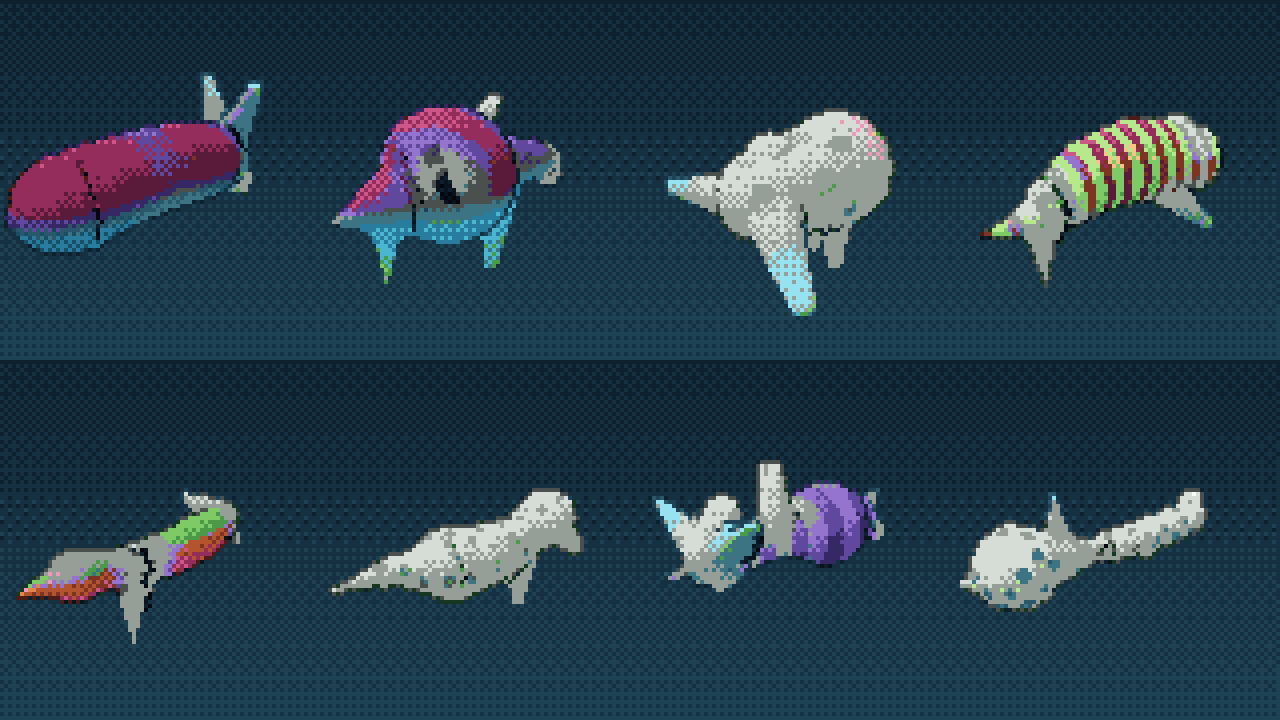
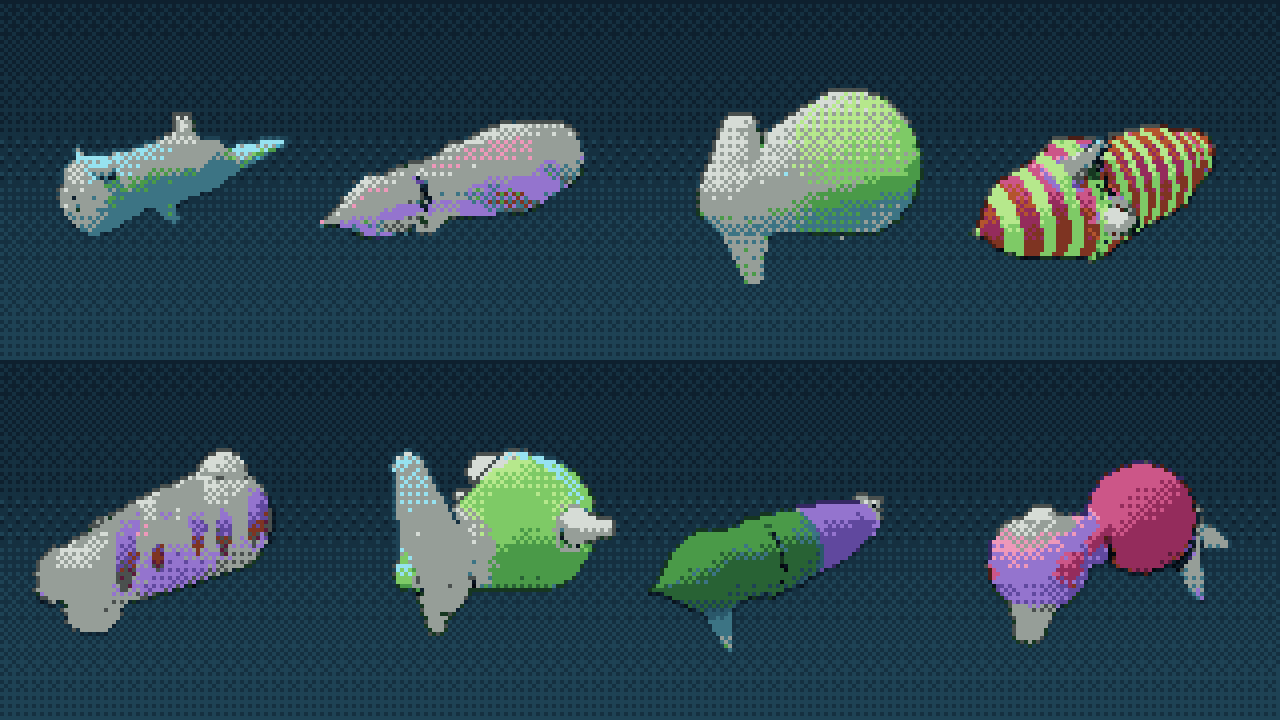
Add four more patterns and per-segment lump genes
Bodies were all smooth spindles because the profile genes only taper. Each
segment now carries a lump gene that dents or bulges its radius, which gives
humps, waists, knobbly spines and pot bellies out of the same four-station
profile.

Patterns went from four to eight: lengthwise stripes, mottle (three
out-of-phase waves, which reads as noise for a fraction of the cost),
nose-to-tail gradient, and concentric rings around the girth.

Also capped the colour genome's value range. It could reach near-white, and
since the renderer tonemaps, a pale albedo plus three light terms rolled off
into a flat featureless blob.

Claude-Session: https://claude.ai/code/session_01ChcFXBS2fUc5MSwqLRWen8

diff --git a/src/aqua_genome.c b/src/aqua_genome.c
@@ -43,6 +43,7 @@ void cp3_genome_clear(Cp3Genome *g)
     g->prof[0] = 110; g->prof[1] = 190; g->prof[2] = 150; g->prof[3] = 70;
     g->hue = 130; g->hue2 = 30; g->sat = 150; g->val = 190;
     g->pattern = CP3_PAT_PLAIN; g->pscale = 120;
+    memset(g->lump, 0, sizeof(g->lump));
 }
 
 /* Catmull-Rom-ish blend across the four profile stations. Smooth, so a
@@ -78,7 +79,9 @@ static void hsv2rgb(float h, float s, float v, float *out)
 void cp3_genome_colour(const Cp3Genome *g, float *rgb, float *rgb2)
 {
     float s = 0.25f + 0.65f * ((float)g->sat / 255.0f);
-    float v = 0.45f + 0.52f * ((float)g->val / 255.0f);
+    /* capped below 1.0: the renderer tonemaps, so an albedo near white
+     * plus three light terms rolls off to a flat pale blob */
+    float v = 0.30f + 0.46f * ((float)g->val / 255.0f);
     if (rgb)  hsv2rgb((float)g->hue / 255.0f, s, v, rgb);
     /* the pattern colour is deliberately pushed apart in value as well as hue,
      * or the markings vanish the moment the palette quantises */
@@ -199,6 +202,8 @@ void cp3_genome_random(Cp3Genome *g, CpRng *r, int budget)
     g->val   = (uint8_t)(70 + cp_rng_int(r, 186));
     g->pattern = (uint8_t)cp_rng_int(r, CP3_PAT_COUNT);
     g->pscale  = (uint8_t)(40 + cp_rng_int(r, 216));
+    for (int i = 0; i < CP3_MAX_SEG; i++)
+        g->lump[i] = (int8_t)(cp_rng_int(r, 97) - 48);
     cp3_genome_normalise(g, budget);
 }
 
@@ -228,6 +233,9 @@ void cp3_genome_mutate(Cp3Genome *g, CpRng *r, int budget, float rate)
     if (cp_rng_f(r) < rate * 0.6f) g->val  = (uint8_t)(g->val + cp_rng_int(r, 41) - 20);
     if (cp_rng_f(r) < rate * 0.3f) g->pattern = (uint8_t)cp_rng_int(r, CP3_PAT_COUNT);
     if (cp_rng_f(r) < rate * 0.5f) g->pscale = (uint8_t)(g->pscale + cp_rng_int(r, 61) - 30);
+    for (int i = 0; i < CP3_MAX_SEG; i++)
+        if (cp_rng_f(r) < rate * 0.7f)
+            g->lump[i] = (int8_t)(g->lump[i] + cp_rng_int(r, 41) - 20);
 
     for (int i = 0; i < CP3_MAX_PARTS; i++) {
         if (cp_rng_f(r) >= rate) continue;

diff --git a/src/render3d.c b/src/render3d.c
@@ -406,7 +406,11 @@ static int build_prims(const Cp3Fish *f, int is_player, Prim *out,
         segpos[i] = add(add(add(cv(f->p), mul(fwd, along)),
                             mul(right, wig + sweep * bend)),
                         mul(up, arch * bend));
-        segrad[i] = R * cp3_profile(&f->g, t);
+        /* profile sets the overall taper; lump genes dent and bulge it */
+        int li = i < CP3_MAX_SEG ? i : CP3_MAX_SEG - 1;
+        segrad[i] = R * cp3_profile(&f->g, t)
+                      * (1.0f + (float)f->g.lump[li] / 127.0f * 0.45f);
+        if (segrad[i] < R * 0.15f) segrad[i] = R * 0.15f;
     }
 
     int n = 0;
@@ -569,6 +573,22 @@ static V3 apply_pattern(const Skin *sk, V3 q, V3 albedo, float bodyw)
     case CP3_PAT_COUNTER:
         /* dark back, pale belly - the near-universal fish pattern */
         m = clampf(0.5f + vert * 0.16f, 0.0f, 1.0f);
+        break;
+    case CP3_PAT_STRIPES:            /* along the body, not across it */
+        m = sinf(atan2f(vert, side) * 4.0f + along * sk->freq * 0.9f) > 0.1f ? 1.0f : 0.0f;
+        break;
+    case CP3_PAT_MOTTLE: {           /* three out-of-phase waves reads as noise */
+        float a = sinf(along * sk->freq * 3.1f) + sinf(side * sk->freq * 4.7f)
+                + sinf(vert * sk->freq * 2.3f) + sinf((along + side) * sk->freq * 6.1f);
+        m = a > 0.55f ? 1.0f : 0.0f;
+        break;
+    }
+    case CP3_PAT_GRADIENT:           /* nose to tail */
+        m = clampf(0.5f - along * sk->freq * 0.55f, 0.0f, 1.0f);
+        m = m > 0.5f ? (m - 0.5f) * 2.0f : 0.0f;
+        break;
+    case CP3_PAT_RINGS:              /* concentric bands around the girth */
+        m = sinf(sqrtf(side * side + vert * vert) * sk->freq * 7.0f) > 0.2f ? 1.0f : 0.0f;
         break;
     default: break;
     }

diff --git a/include/cpore/aqua.h b/include/cpore/aqua.h
@@ -72,6 +72,7 @@ typedef struct {
 /* Pattern genome. Colour carries as much perceived variety as shape does, and
  * it is far cheaper, so it gets its own genes and its own inheritance. */
 enum { CP3_PAT_PLAIN = 0, CP3_PAT_BANDS, CP3_PAT_SPOTS, CP3_PAT_COUNTER,
+       CP3_PAT_STRIPES, CP3_PAT_MOTTLE, CP3_PAT_GRADIENT, CP3_PAT_RINGS,
        CP3_PAT_COUNT };
 
 typedef struct {
@@ -90,6 +91,9 @@ typedef struct {
     uint8_t sat, val;   /* saturation and lightness */
     uint8_t pattern;    /* CP3_PAT_*  */
     uint8_t pscale;     /* pattern frequency */
+    /* Per-segment lumps. Without these every body is a smooth spindle;
+     * with them you get humps, waists, knobbly spines and pot bellies. */
+    int8_t  lump[CP3_MAX_SEG];
 } Cp3Genome;
 
 /* profile multiplier at t in [0,1] along the body, from the four stations */
